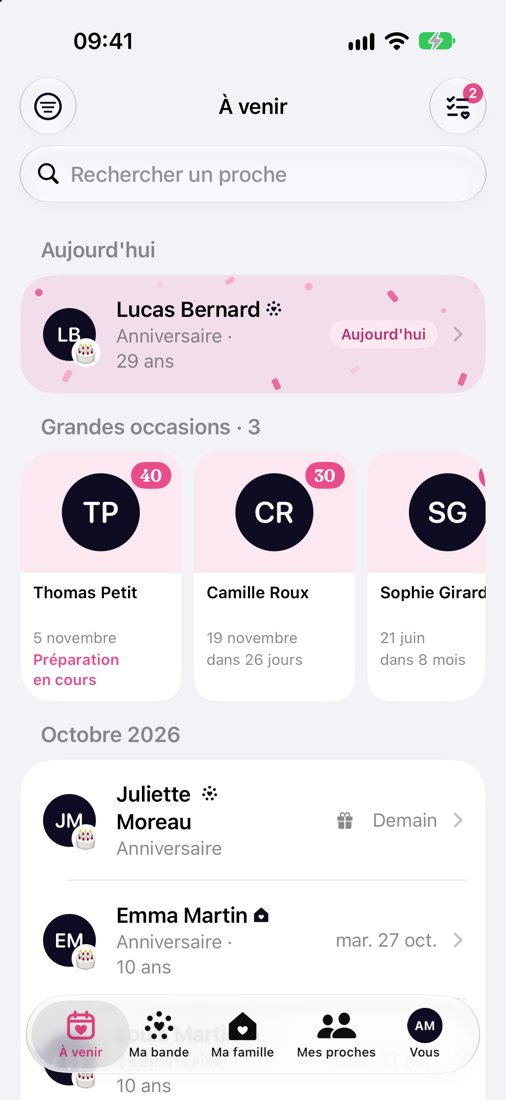
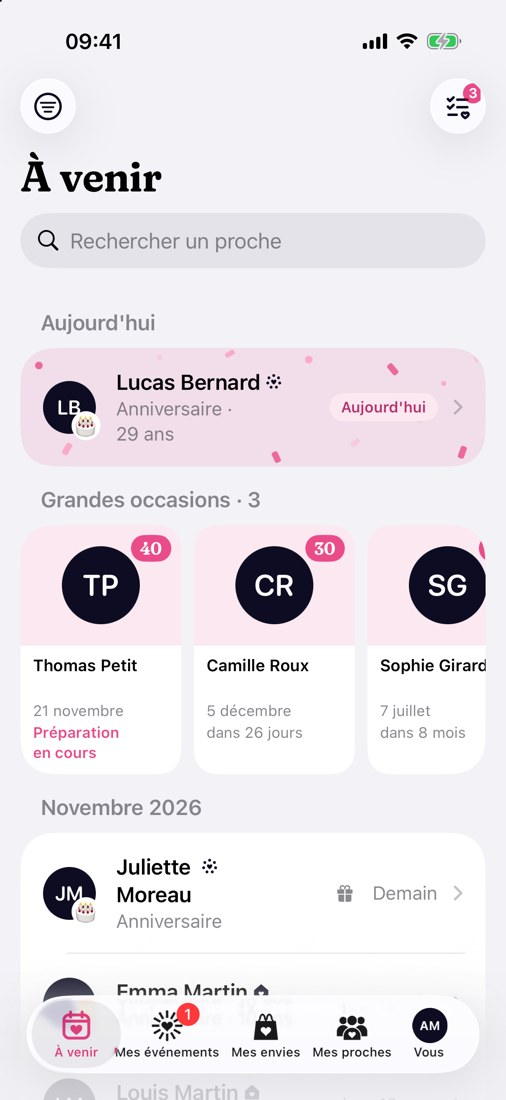
Accueil : événements, Secret Santa, Mes amis, captures du build 14
Claude-Session: https://claude.ai/code/session_01RSBcRXL7riwbJR2cCQgVXe

diff --git a/index.html b/index.html
@@ -38,7 +38,7 @@
   </div>
   <div class="hero-ecrans">
     <figure class="tel tel-arriere"><picture><img src="/assets/ecrans/clair-family.jpg" alt="Écran Ma famille"></picture></figure>
-    <figure class="tel tel-avant"><picture><img src="/assets/ecrans/clair-bande.jpg" alt="Écran Ma bande"></picture></figure>
+    <figure class="tel tel-avant"><picture><img src="/assets/ecrans/clair-events.jpg" alt="Écran Mes événements"></picture></figure>
   </div>
 </section>
 
@@ -54,27 +54,36 @@
 <section class="bloc inverse">
   <div class="bloc-texte">
     <p class="numero">02</p>
-    <h2>On prépare ensemble</h2>
-    <p>Une idée de cadeau, « je m'en occupe », « c'est organisé » : toute la famille voit où on en est. Sauf la personne fêtée, bien sûr. La surprise reste une surprise.</p>
+    <h2>On organise ensemble</h2>
+    <p>Un anniversaire approche ? Créez un événement avec ceux qui comptent : une discussion en direct, des photos, une todo où chacun dit « Je le prends ». Sauf la personne fêtée, bien sûr. La surprise reste une surprise.</p>
   </div>
-  <figure class="tel"><picture><img src="/assets/ecrans/clair-event.jpg" alt="Écran d'un anniversaire" loading="lazy"></picture></figure>
+  <figure class="tel"><picture><img src="/assets/ecrans/clair-groupe-fil.jpg" alt="Écran de la discussion d'un événement" loading="lazy"></picture></figure>
 </section>
 
 <section class="bloc">
   <div class="bloc-texte">
     <p class="numero">03</p>
     <h2>Mes envies</h2>
-    <p>Votre liste d'envies, ajoutée depuis Safari d'un simple partage. Vos proches réservent en secret : « Je le prends ». Fini les cadeaux en double.</p>
+    <p>Votre liste d'envies, ajoutée depuis Safari d'un simple partage. Vos proches réservent en secret : « Je le prends ». Fini les cadeaux en double. Un proche n'a pas encore de liste ? Demandez-la en un toucher.</p>
   </div>
-  <figure class="tel"><picture><img src="/assets/ecrans/clair-settings.jpg" alt="Écran Vous, avec Mes envies" loading="lazy"></picture></figure>
+  <figure class="tel"><picture><img src="/assets/ecrans/clair-envies.jpg" alt="Écran Mes envies" loading="lazy"></picture></figure>
+</section>
+
+<section class="bloc inverse">
+  <div class="bloc-texte">
+    <p class="numero">04</p>
+    <h2>Secret Santa</h2>
+    <p>Noël approche : le tirage se fait dans l'app. Chacun découvre sa personne et partage ses envies pour guider qui lui offre. L'organisateur voit où en est chacun, jamais qui offre à qui.</p>
+  </div>
+  <figure class="tel"><picture><img src="/assets/ecrans/clair-santa.jpg" alt="Écran Secret Santa" loading="lazy"></picture></figure>
 </section>
 
 <section class="atouts">
-  <div class="atout"><span>💞</span><h3>Ma famille, Ma bande</h3><p>Les liens de chacun, et les sept amis qui comptent vraiment.</p></div>
+  <div class="atout"><span>💞</span><h3>Ma famille, Mes amis</h3><p>Les liens de chacun, et les amis qui comptent vraiment.</p></div>
   <div class="atout"><span>🔔</span><h3>Le bon rappel</h3><p>Le jour J, la veille, ou des semaines avant.</p></div>
   <div class="atout"><span>📱</span><h3>Widget et Siri</h3><p>Les prochaines dates sur l'écran d'accueil, ou à la voix.</p></div>
   <div class="atout"><span>💌</span><h3>Partage en un geste</h3><p>Votre QR code, ou un lien avec une jolie carte : vos dates s'ajoutent d'un toucher.</p></div>
-  <div class="atout"><span>🔒</span><h3>Vos données restent à vous</h3><p>Dans votre iPhone et votre iCloud. Ni publicité, ni pistage.</p></div>
+  <div class="atout"><span>🔒</span><h3>Vos données restent à vous</h3><p>Vos proches restent dans votre iPhone et votre iCloud. Seul ce que vous partagez passe par notre serveur, en Europe. Ni publicité, ni pistage.</p></div>
 </section>
 
 <section class="invitation" id="liste-attente">
